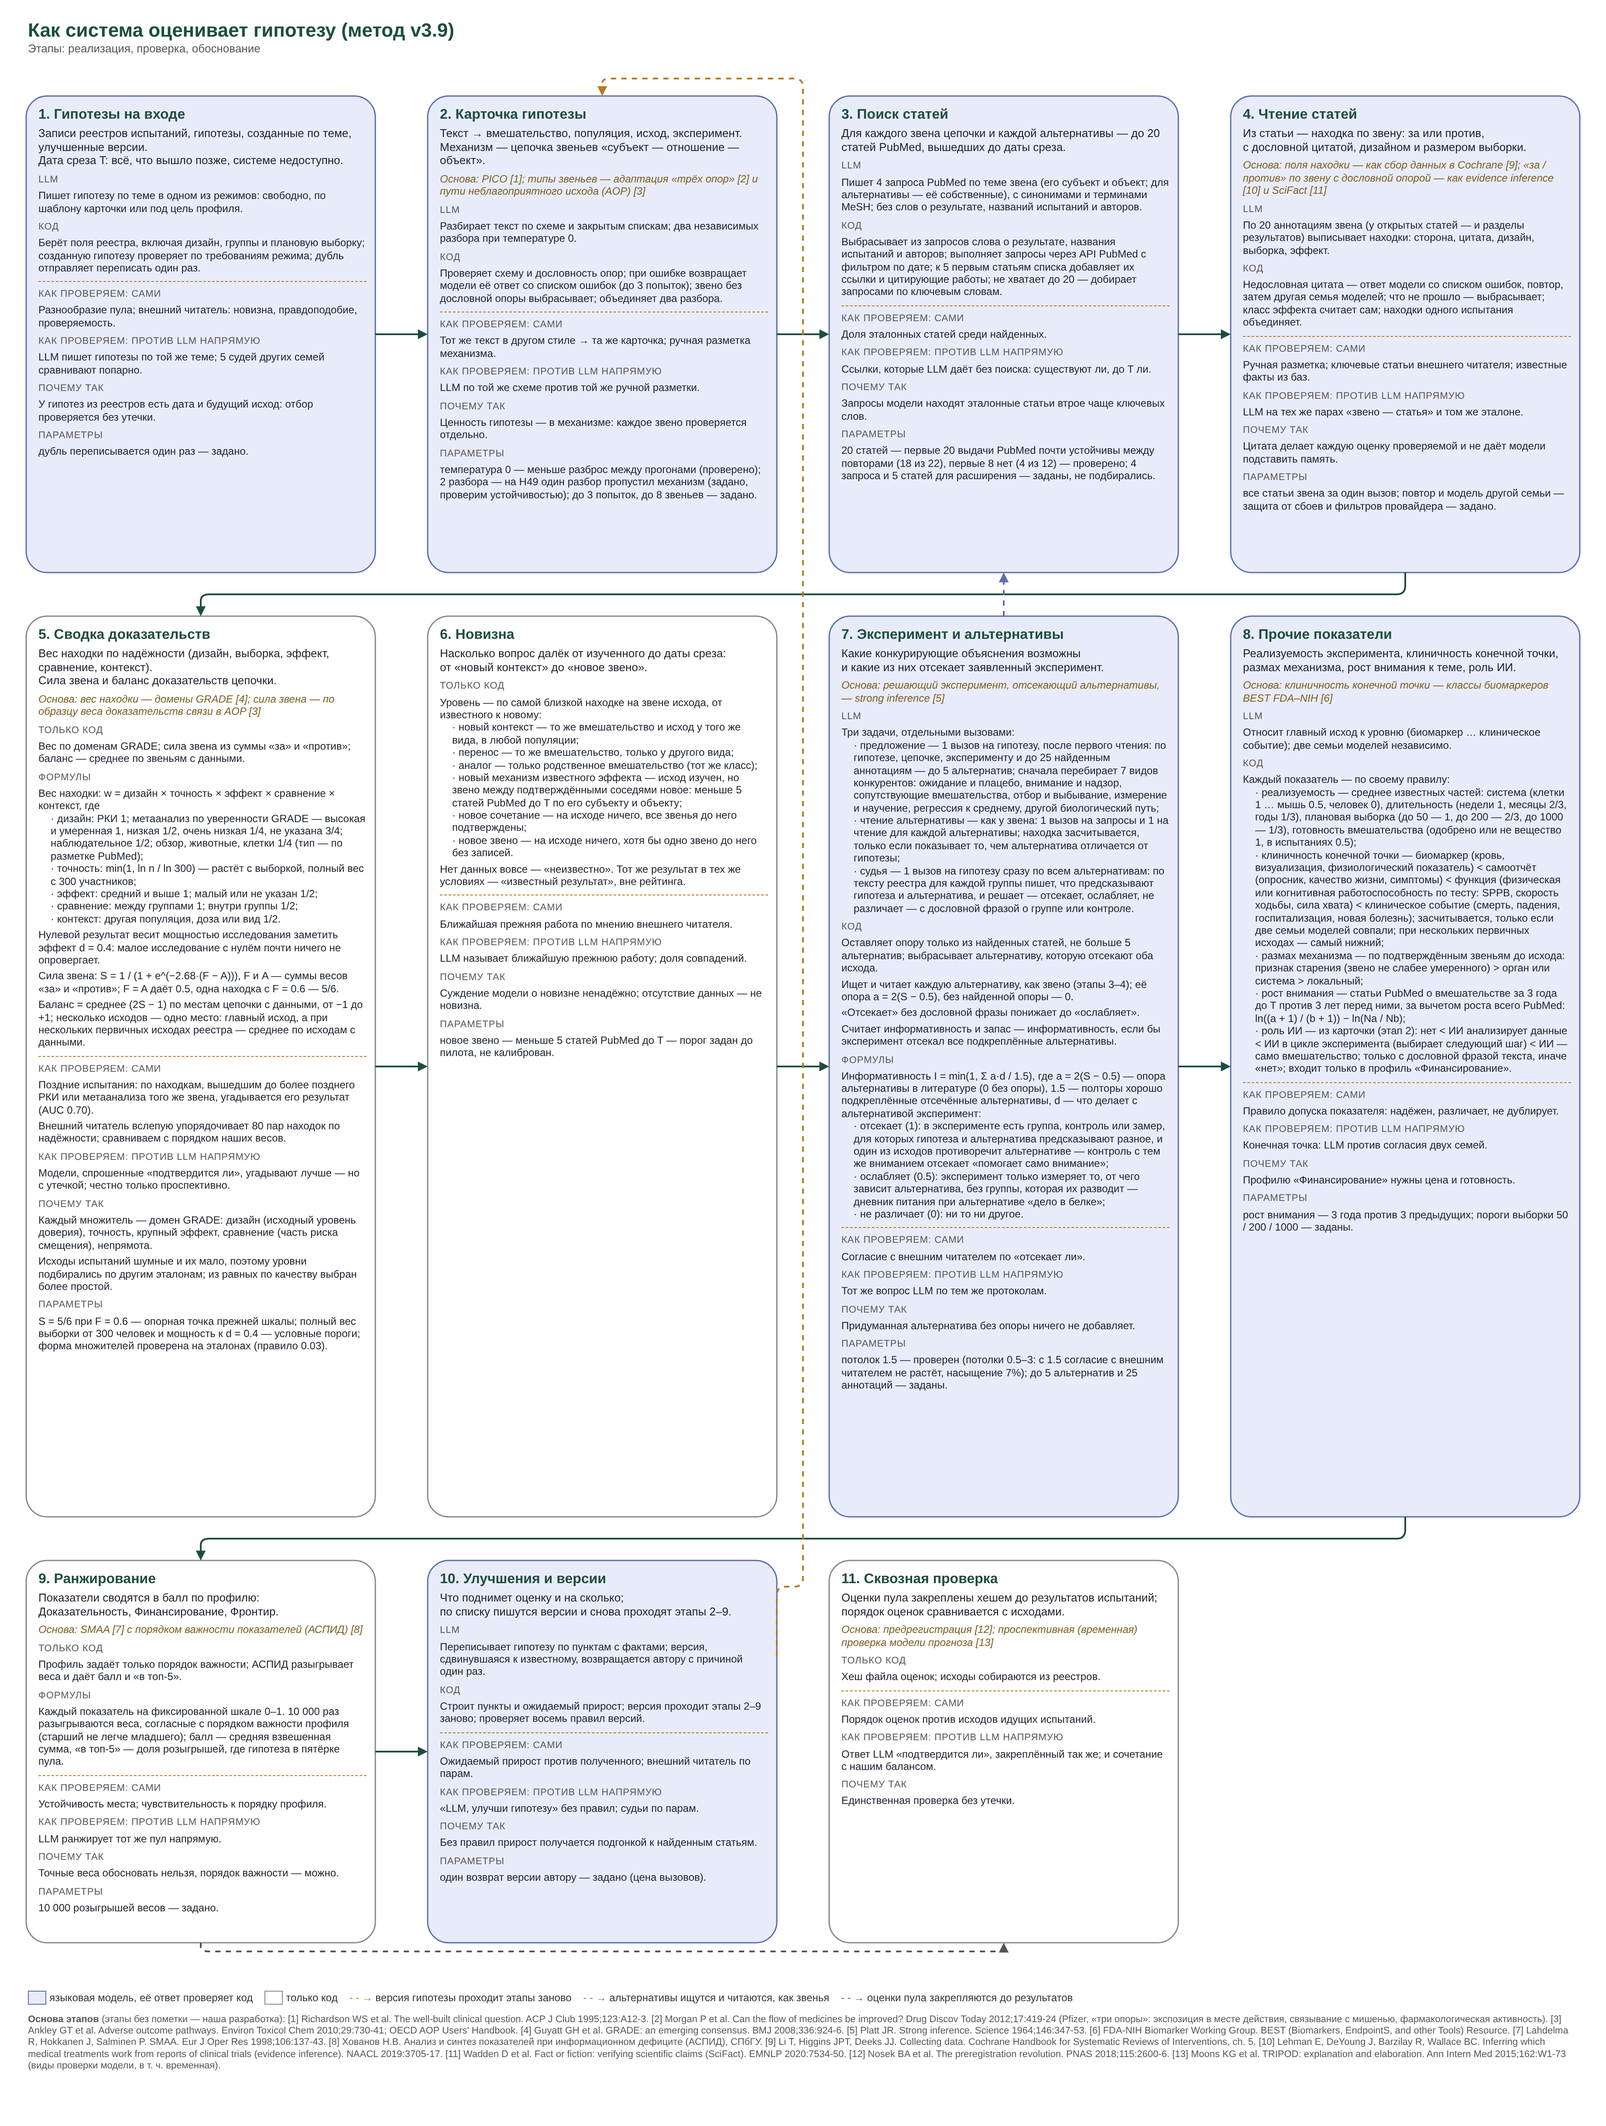
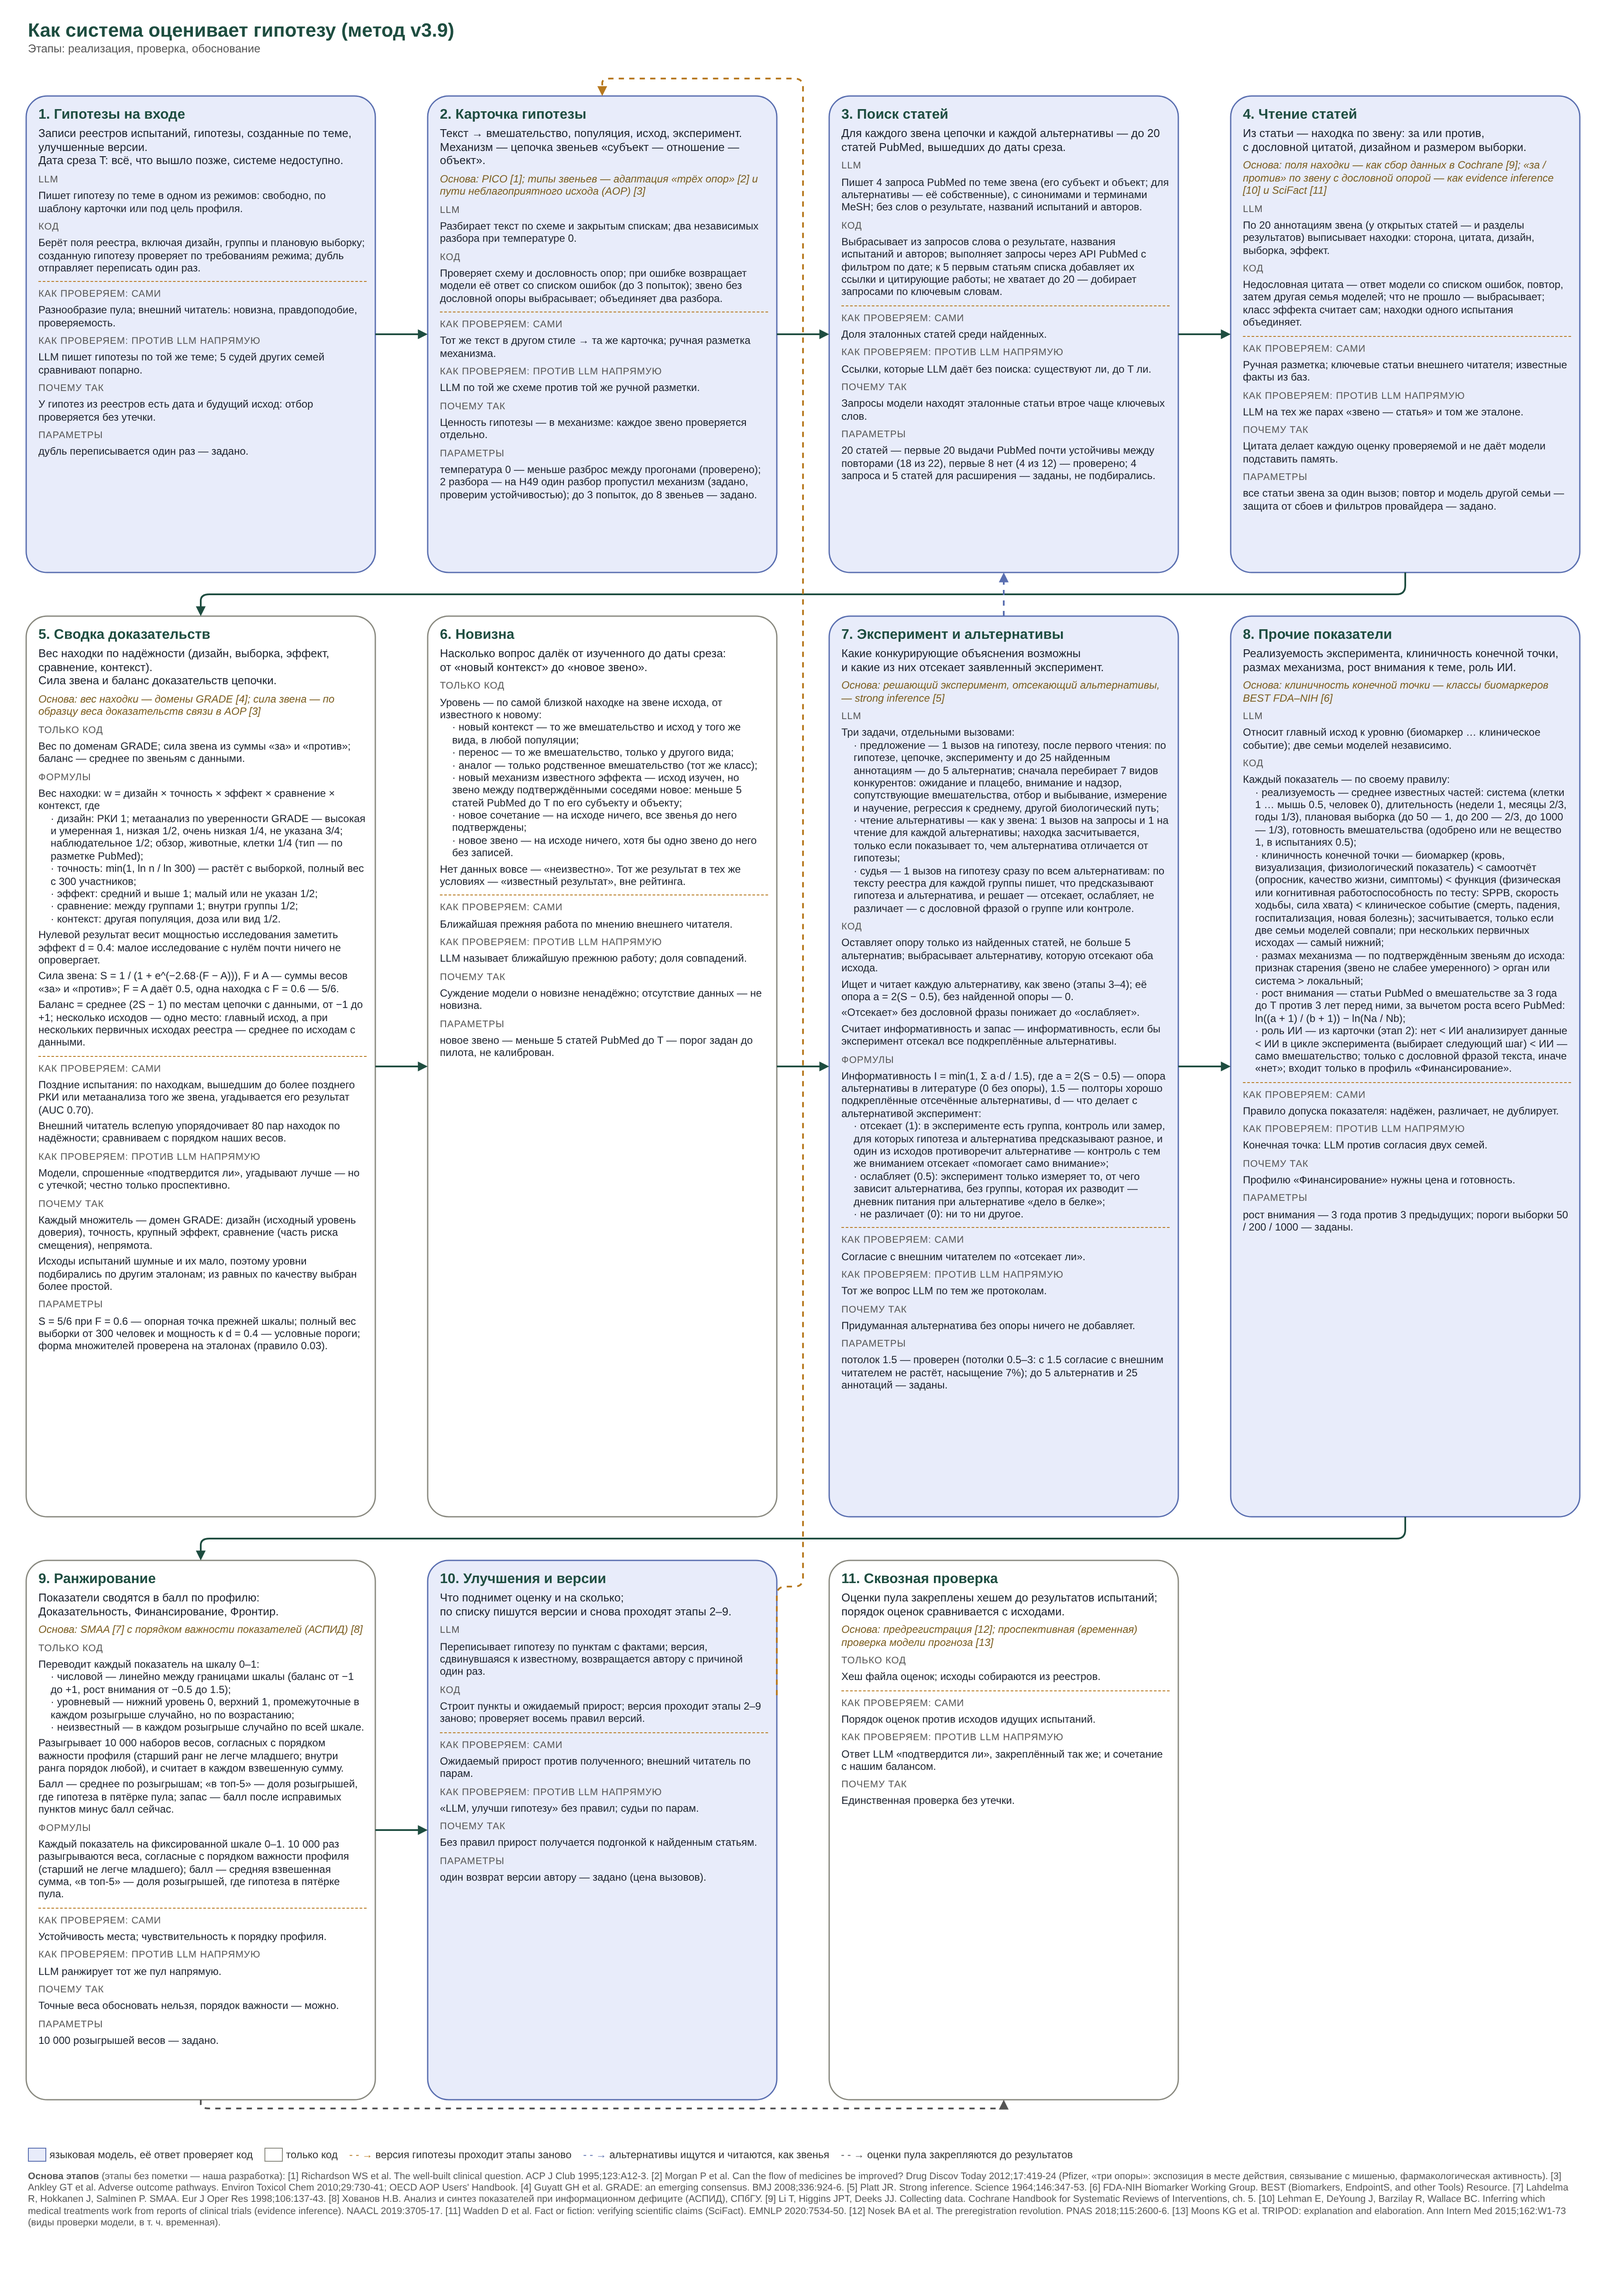
Flow scheme, stage 9: how indicators go on 0-1 scales and how the weights are drawn; H49 walkthrough: stage 9 (score decomposition, the six-level novelty side effect)
Claude-Session: https://claude.ai/code/session_015QaY8wcM8f6FoFe6WxnTtU

diff --git a/docs/system/build_flow.py b/docs/system/build_flow.py
@@ -110,7 +110,12 @@ STAGES = [
     dict(name="9. Ранжирование", formulas=['Каждый показатель на фиксированной шкале 0–1. 10 000 раз разыгрываются веса, согласные с порядком важности профиля (старший не легче младшего); балл — средняя взвешенная сумма, «в топ-5» — доля розыгрышей, где гипотеза в пятёрке пула.'], params="10 000 розыгрышей весов — задано.", basis="SMAA [7] с порядком важности показателей (АСПИД) [8]", kind="code",
          base=["Показатели сводятся в балл по профилю:",
                "Доказательность, Финансирование, Фронтир."],
-         code=["Профиль задаёт только порядок важности; АСПИД разыгрывает веса и даёт балл и «в топ-5»."],
+                  code=["Переводит каждый показатель на шкалу 0–1:",
+               "  · числовой — линейно между границами шкалы (баланс от −1 до +1, рост внимания от −0.5 до 1.5);",
+               "  · уровневый — нижний уровень 0, верхний 1, промежуточные в каждом розыгрыше случайно, но по возрастанию;",
+               "  · неизвестный — в каждом розыгрыше случайно по всей шкале.",
+               "Разыгрывает 10 000 наборов весов, согласных с порядком важности профиля (старший ранг не легче младшего; внутри ранга порядок любой), и считает в каждом взвешенную сумму.",
+               "Балл — среднее по розыгрышам; «в топ-5» — доля розыгрышей, где гипотеза в пятёрке пула; запас — балл после исправимых пунктов минус балл сейчас."],
          own=["Устойчивость места; чувствительность к порядку профиля."],
          base_llm=["LLM ранжирует тот же пул напрямую."],
          why=["Точные веса обосновать нельзя, порядок важности — можно."]),

diff --git a/docs/walkthrough/H49.md b/docs/walkthrough/H49.md
@@ -317,3 +317,19 @@ I = min(1, Σ a·d / 1.5).
 | роль ИИ | нет | дословной фразы о роли ИИ в тексте нет | — |
 
 **Решения по этапу 8 (2026-11-11):** клиничность при нескольких первичных исходах — самый нижний (промпт `estimand/v2`, мануал раздел 8); рост внимания по синонимам — в backlog.
+
+## Этап 9. Ранжирование
+
+**Как устроено** (только код, АСПИД / SMAA): каждый показатель на шкале 0–1 (числовой — линейно между границами, уровневый —
+нижний 0, верхний 1, промежуточные случайно по возрастанию, неизвестный — случайно по всей шкале); 10 000 наборов весов,
+согласных с порядком важности профиля; балл — средняя взвешенная сумма, «в топ-5» — доля розыгрышей в пятёрке пула.
+
+**H49** (пул из 65): «Доказательность» 0.512 (25 место), «Финансирование» 0.504 (22), «Фронтир» 0.502 (27); в топ-5 — 0% везде.
+Раскладка «Доказательности» (средний вес × значение на шкале): баланс 0.41 × 0.83 = 0.34; информативность 0.24 × 0 = 0; размах
+0.16 × 0 (локальный) = 0; лучший дизайн, независимые источники, клиничность — по 0.06 × (1; 1; 0.67) = 0.17. Итого ≈ 0.51.
+Что держит H49 в середине: нулевая информативность (−0.24 от возможного) и локальный размах (−0.16).
+
+| Наблюдение | Вопрос |
+|---|---|
+| Шкала новизны v3.9 — 6 уровней вместо 5: «аналог» в среднем стоил 0.50, теперь 0.40; «Фронтир» H49 при пересчёте 0.50 → 0.46 без всяких изменений в данных | побочный эффект нового уровня (записан в спецификации); принять или закрепить положение старых уровней? |
+| Баллы пула сжаты около 0.5, места близки; повторное чтение тех же статей даёт Spearman 0.81 (мануал раздел 12) | места внутри шума — показывать в отчёте интервал места, а не одно место? |
